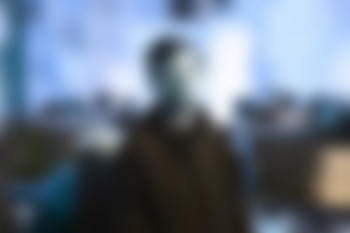
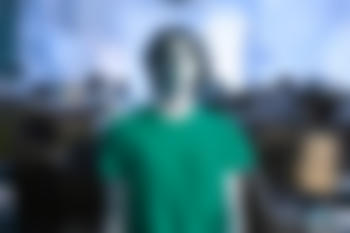
endpoint user image modif at /game/guess-image

diff --git a/back-end/src/db.rs b/back-end/src/db.rs
@@ -96,10 +96,10 @@ pub async fn get_user_image(
     let vec: Vec<String> = user.r#try.unwrap().into();
     let mut path_to_image: String = String::from("./images/target_").to_owned();
     if vec.len() < 7 {
-        path_to_image.push_str(&vec.len().to_string());
+        path_to_image.push_str(&(6 - vec.len()).to_string());
     }
     else {
-        path_to_image.push_str("6");
+        path_to_image.push_str("0");
     }
     path_to_image.push_str(".jpeg");
     println!("path: {path_to_image}");

diff --git a/back-end/src/game.rs b/back-end/src/game.rs
@@ -170,7 +170,7 @@ pub async fn get_guess_image(token: Option<Token>, db: &State<DatabaseConnection
     match token {
         Some(_login) => {
             let coke = jar.get_private("user_id").unwrap().clone();
-            match db::get_user_image(&db, "nlocusso".to_string()).await {
+            match db::get_user_image(&db, coke.value().to_string()).await {
                 Ok(res) => Ok(res),
                 Err(_) => {
                     println!("get_guess_image: failed to load image");
